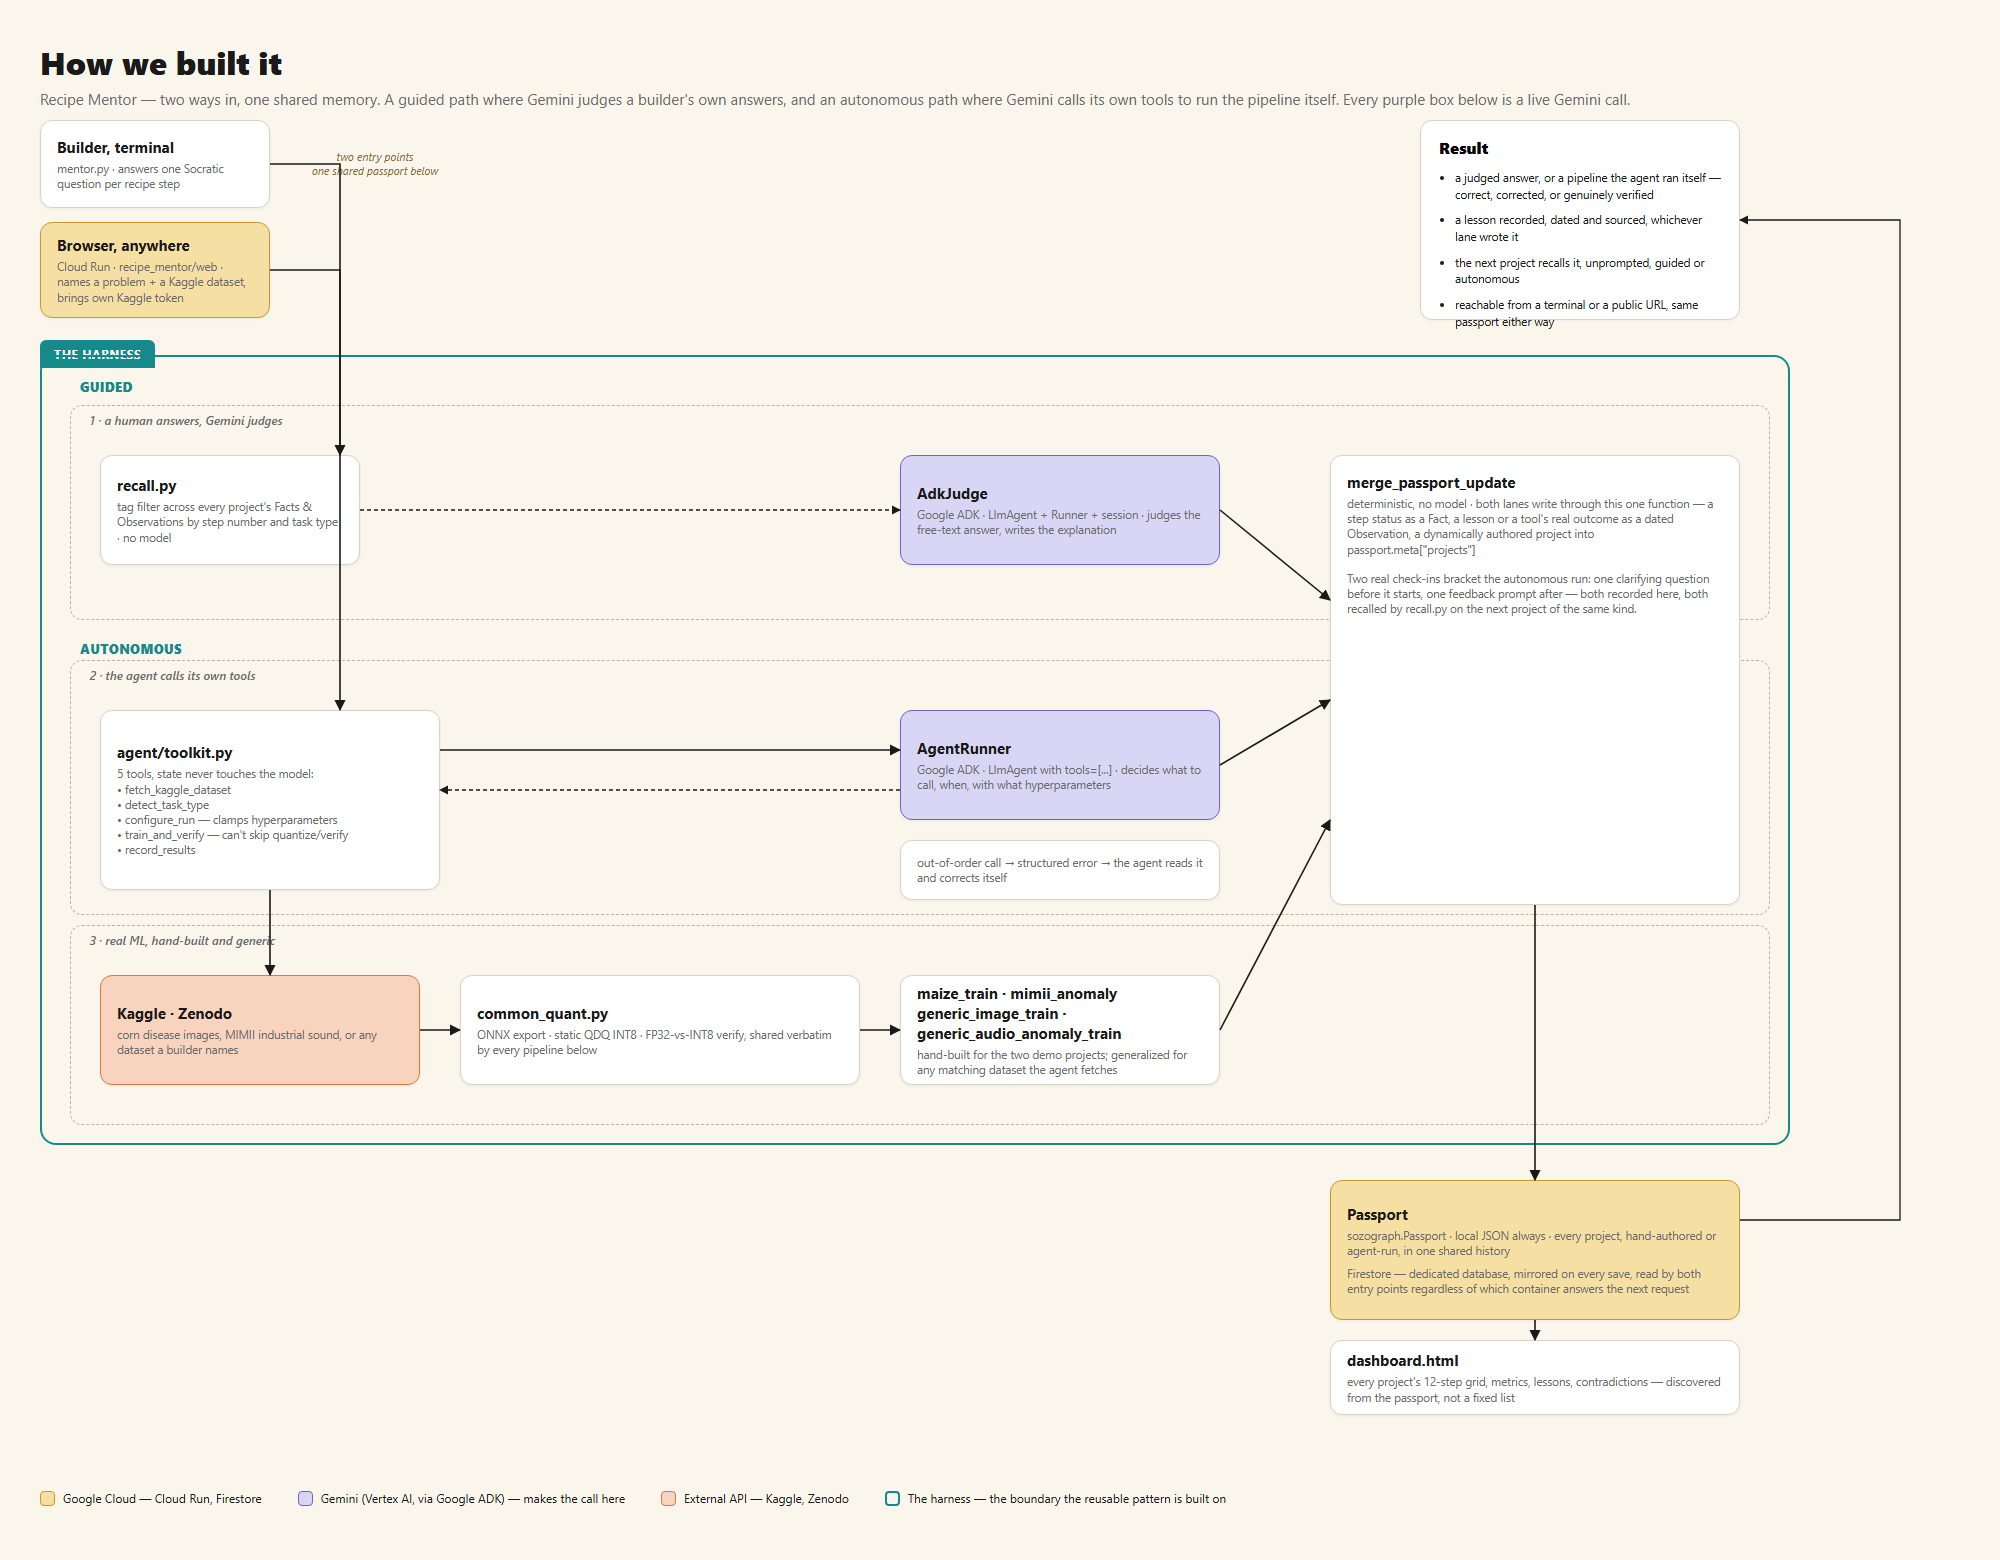
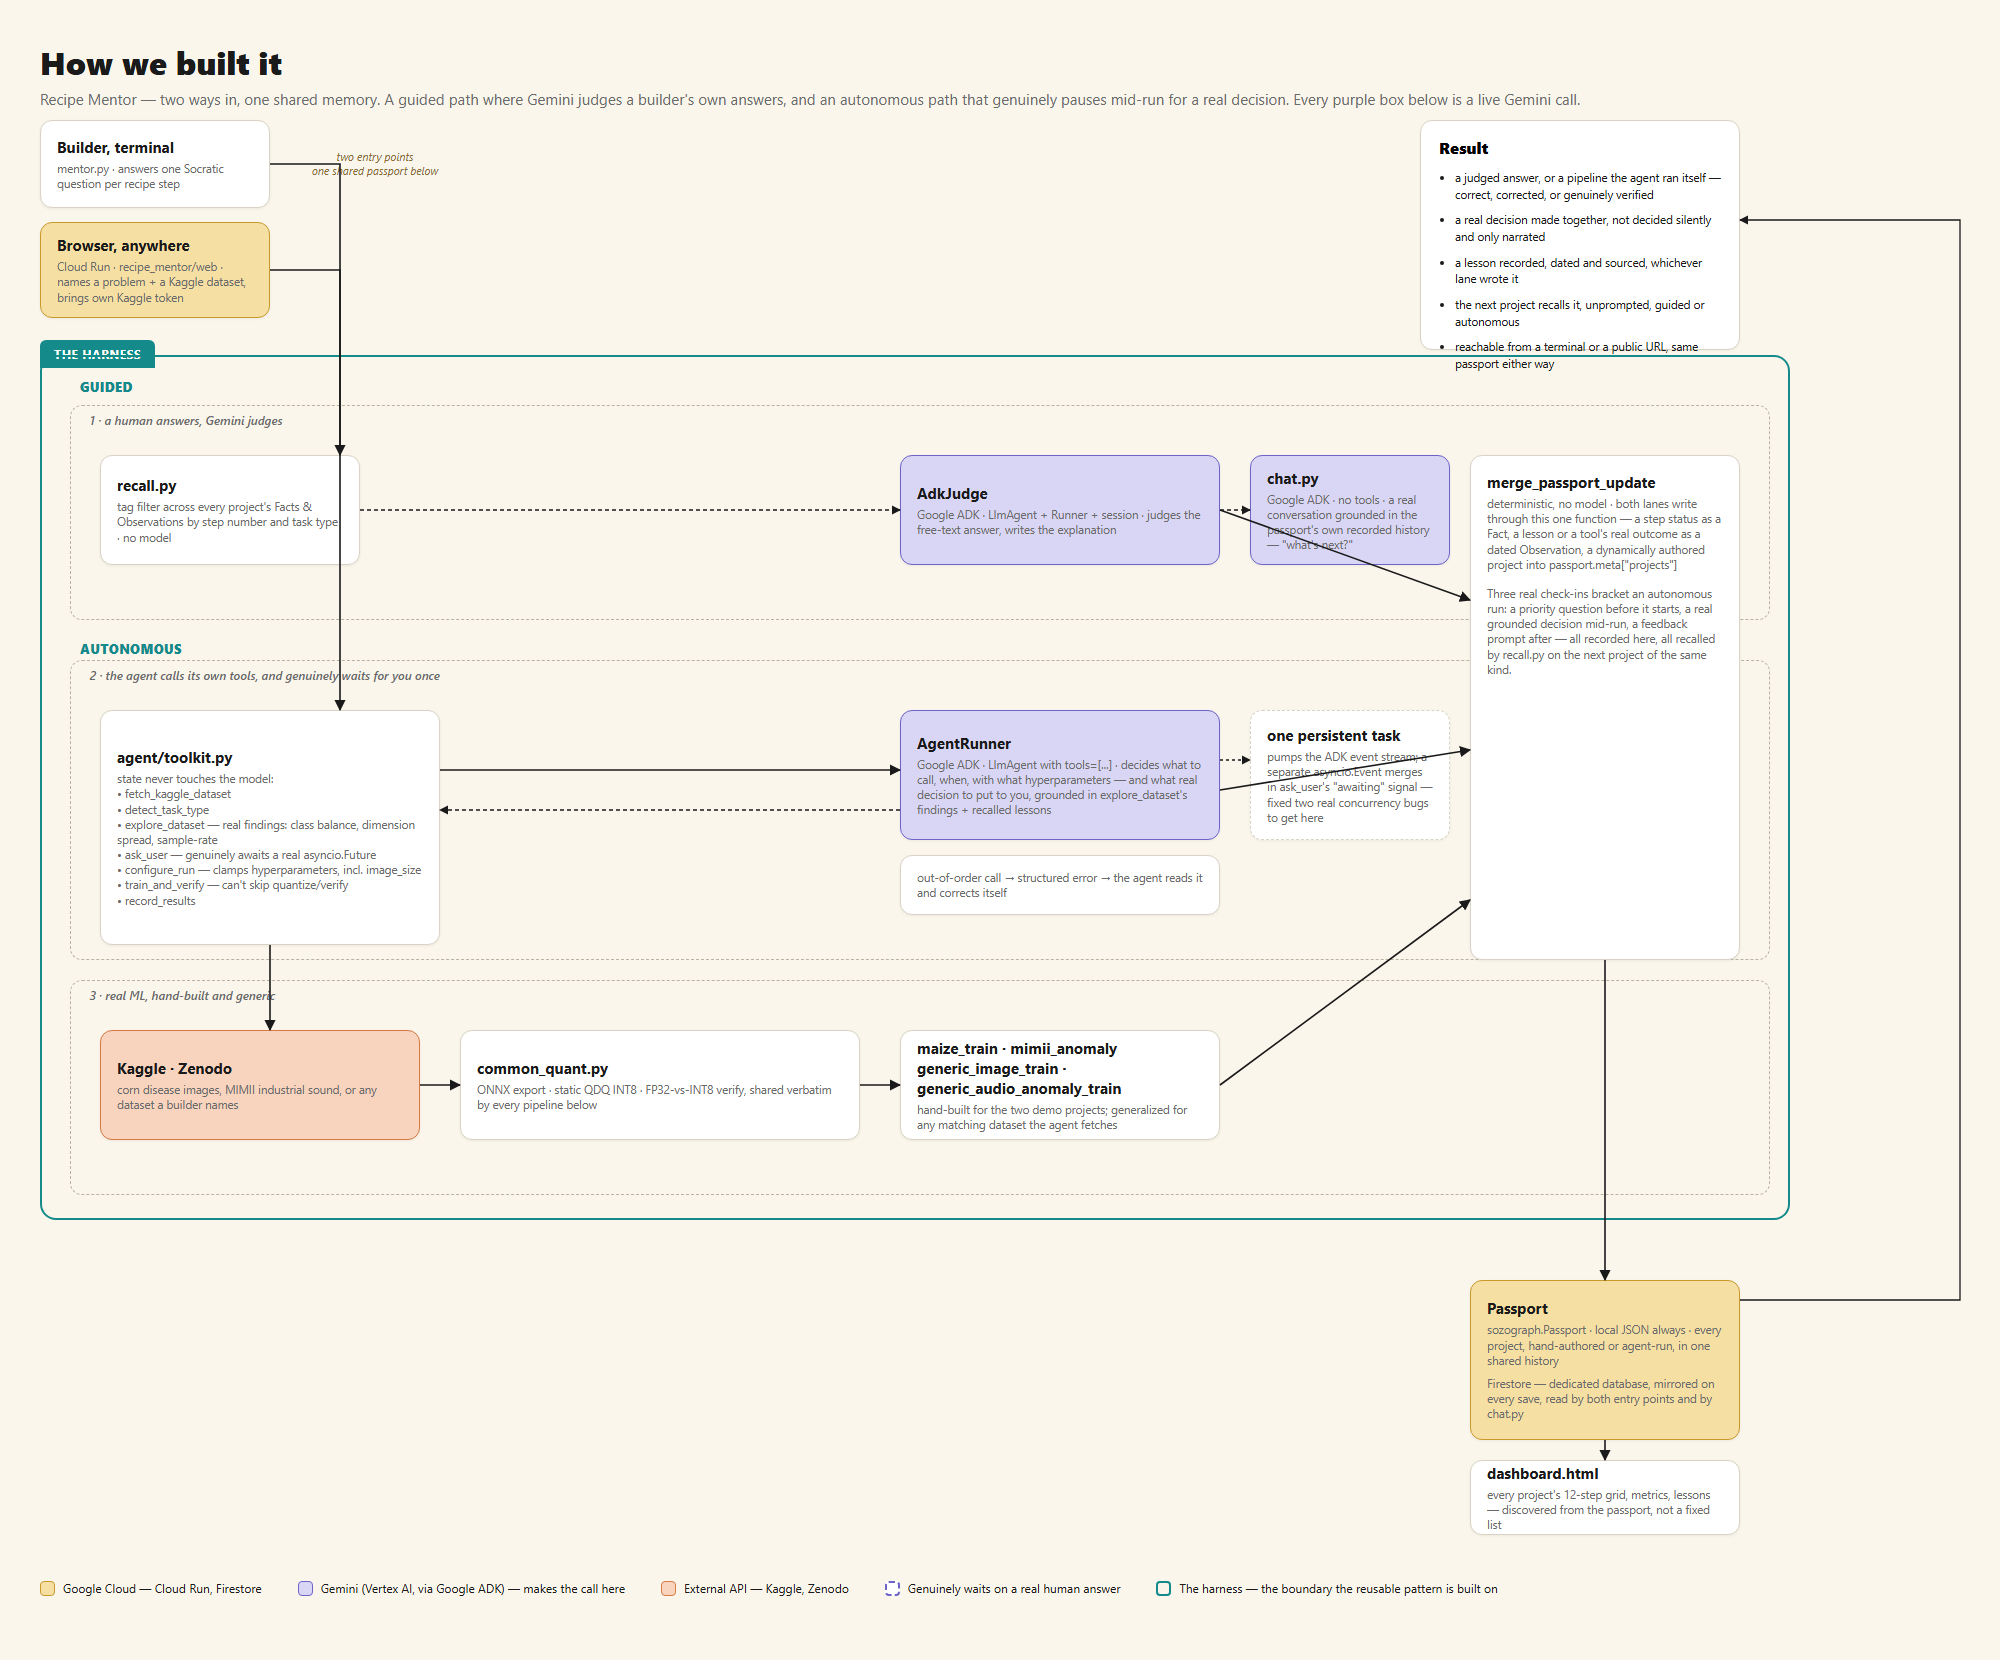
Reframe README, writeup, script, and diagram around the real approach
The collaborative decision point (explore_dataset + ask_user, genuinely
pausing mid-run) is now the centerpiece across every doc, not an addendum
to the autonomous-agent pitch: README's intro and 'what's demonstrated'
list, the Devpost writeup's Inspiration/Challenges/What we learned/What's
next, the demo script's own dedicated beat ('a real decision, together'),
and the architecture diagram (explore_dataset/ask_user listed in
agent/toolkit.py, the concurrency-fix box, chat.py, a legend entry for
'genuinely waits on a real human answer').

Also: docs/mark.png, a new logo -- a stylized R built from a connected
path with circular nodes, three colors (teal, gold, navy) matching the
existing brand palette -- surfaced at the top of the README.

diff --git a/README.md b/README.md
@@ -1,3 +1,5 @@
+<img src="docs/mark.png" width="88" alt="Recipe Mentor">
+
 # Recipe Mentor
 
 A Collaborative Partner agent, built on
@@ -42,11 +44,22 @@ with real tools. Fork this as a template for that shape of agent.
    clarifying question before it starts and one for feedback after it
    finishes, so the answer shapes this run and the feedback shapes the
    next one. See "Autonomous agent mode" below.
-4. **A real agent framework judging real answers, too.** `llm.py`'s
+4. **A decision the agent genuinely waits on, not a scripted check-in.**
+   `explore_dataset()` samples the fetched dataset for real findings; one
+   tool, `ask_user()`, blocks on an actual `asyncio.Future` until a real
+   answer arrives, mid-run, before the agent configures anything. Two real
+   concurrency bugs, found by testing the live loop and documented in the
+   ADR, stood between "the model decided to ask" and "the tool is
+   genuinely waiting" -- they're the same moment in a mental model of the
+   loop and two different events one step apart in the actual one.
+5. **A reflective chat, no tools at all.** `agent/chat.py` answers "what's
+   been tried, what's worth exploring next" from the passport's own
+   recorded history -- weak results included, not glossed over.
+6. **A real agent framework judging real answers, too.** `llm.py`'s
    `AdkJudge` runs a second ADK agent (`LlmAgent` + `Runner` + session)
    against Gemini 3.5, for the Socratic path. It genuinely evaluates
    whether a free-text answer satisfies a stated rule.
-5. **Real pipelines behind every project.** A maize leaf-disease CNN and a
+7. **Real pipelines behind every project.** A maize leaf-disease CNN and a
    MIMII-based generator-fault autoencoder, hand-built for the two demo
    cards. Generic versions of both, `generic_image_train.py` and
    `generic_audio_anomaly_train.py`, back the autonomous path for any
